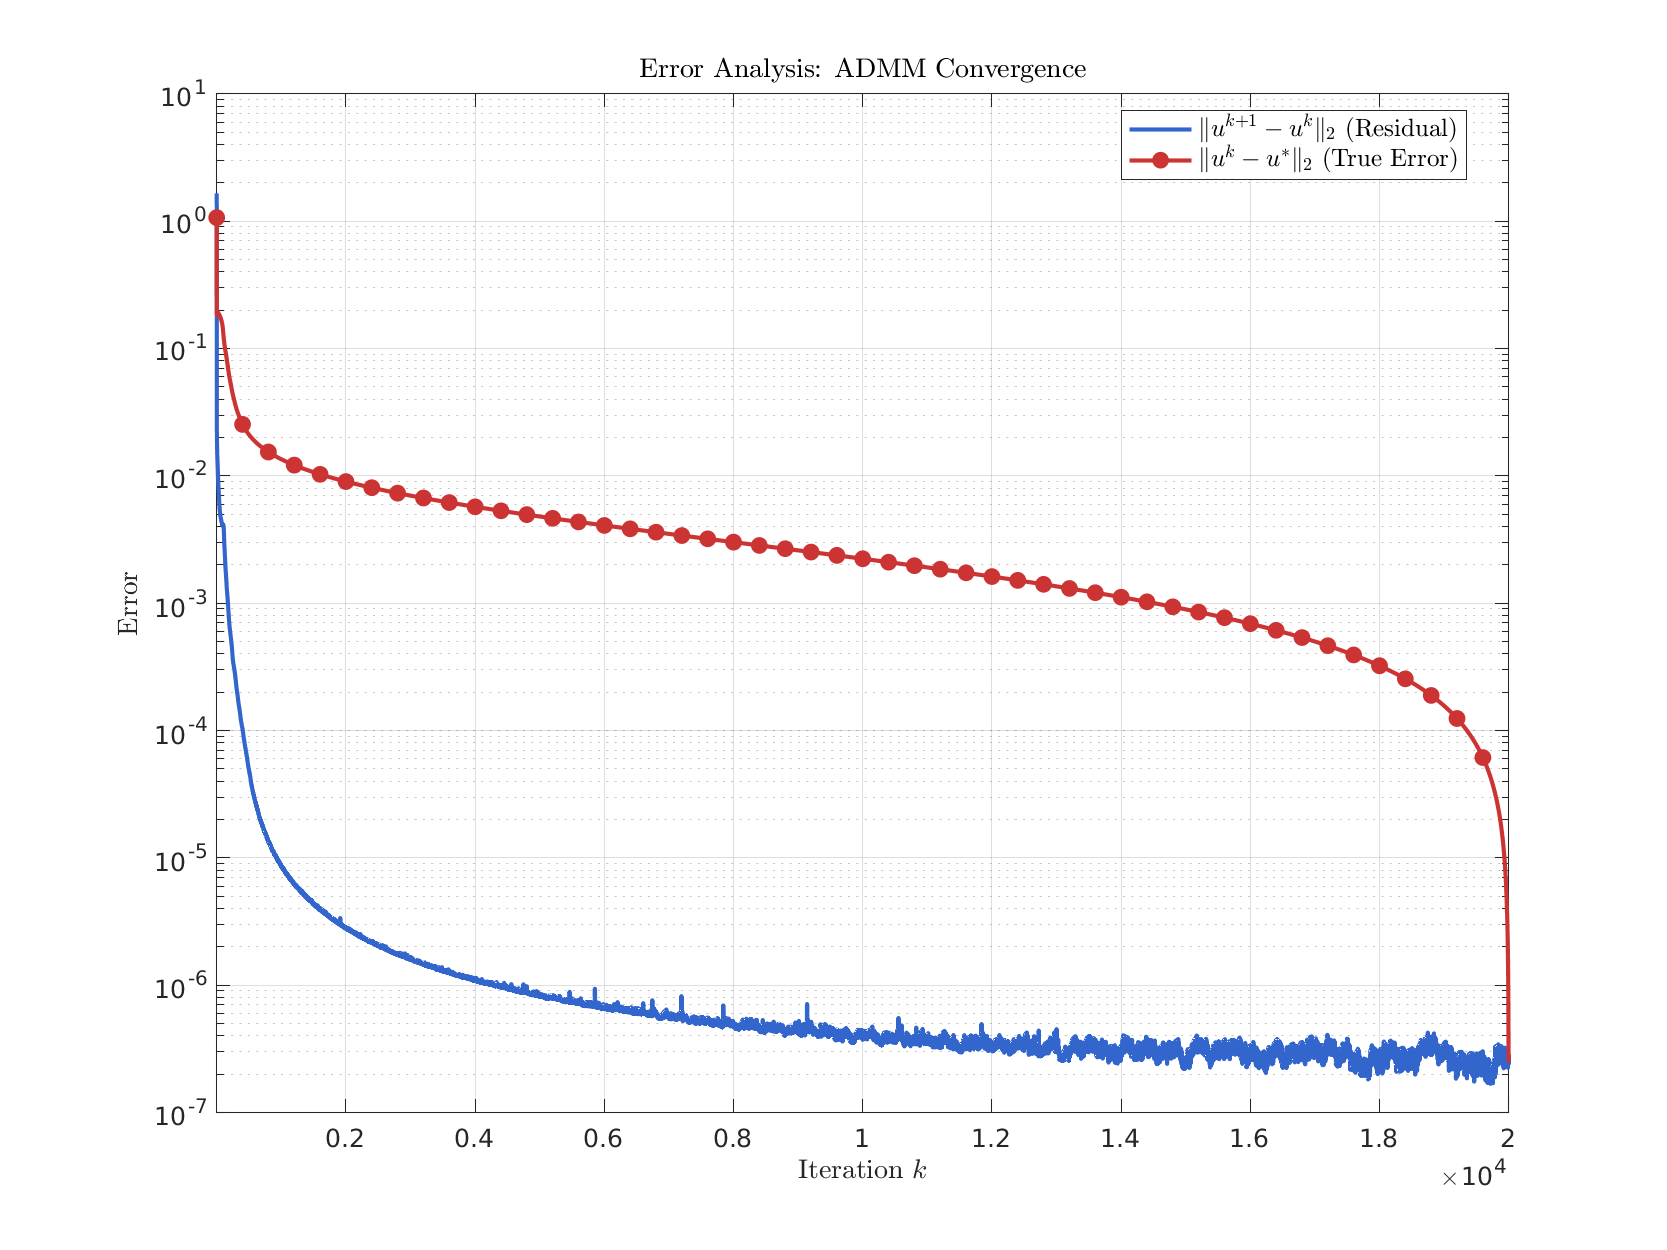
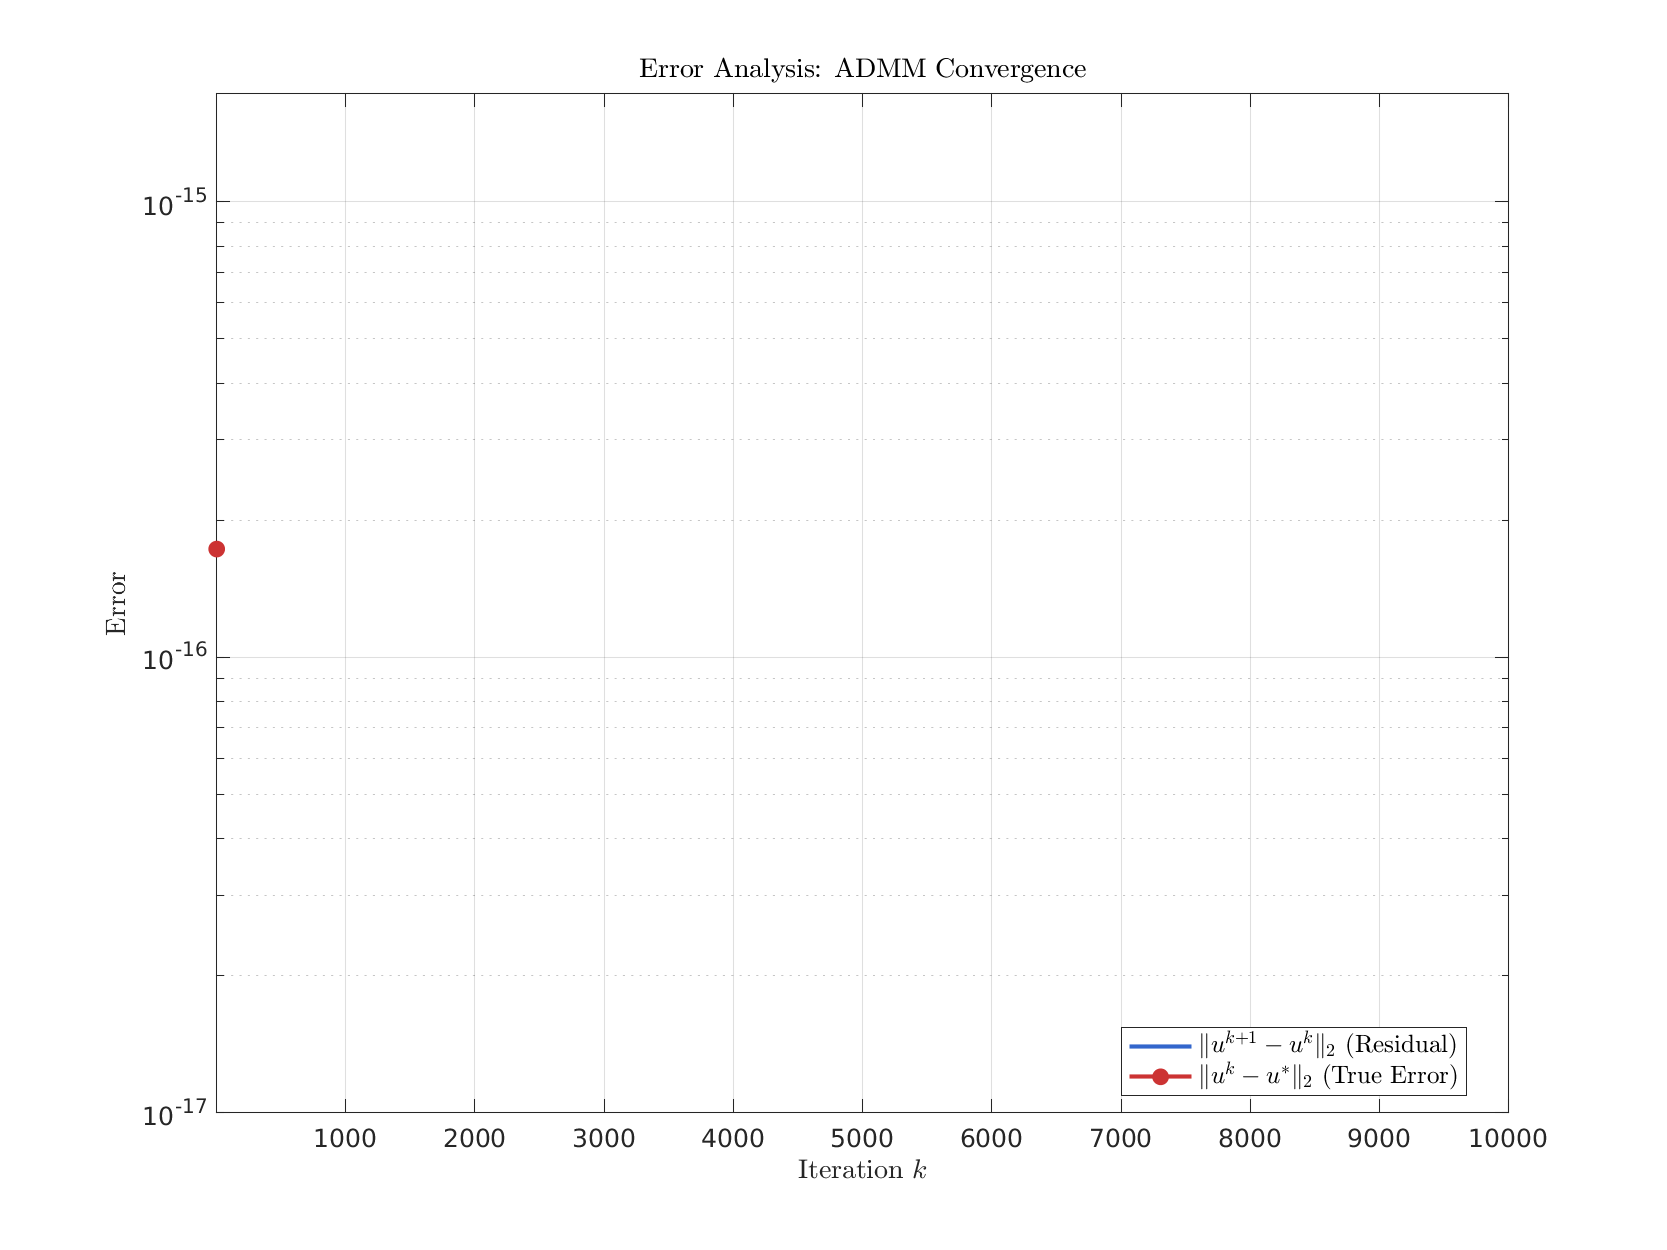
testing new inits

diff --git a/collocated_grid/2d/main_simple.m b/collocated_grid/2d/main_simple.m
@@ -3,9 +3,9 @@
 % 2D
 
 clear
-post_process = false;
+post_process = true;
 tau = 0.1;
-GPUcomputing = false;  
+GPUcomputing = true;  
 gpu_device = 1;
 folder = "./data/";
 case_name = "gaussian_";
@@ -15,7 +15,7 @@ ntp = nt+1;
 dt = 1/ntp;
 % t = linspace(0,1-dt,ntp);
 % t = t';
-maxIter = 20000;
+maxIter = 10000;
 
 
 % nx = nt;
@@ -41,10 +41,10 @@ rho0((x-0.25).^2 + (y-0.25).^2 < 0.01) = 1;
 rho1((x-0.75).^2 + (y-0.75).^2 < 0.01) = 1;
 
 % Quadrature Vector
-% rho0_mass = sum(rho0,'all')*dx*dy*dt;
-% rho1_mass = sum(rho1,'all')*dx*dy*dt;
 rho0_mass = sum(rho0,'all')*dx*dy;
 rho1_mass = sum(rho1,'all')*dx*dy;
+%rho0 = rho0/rho0_mass;
+%rho1 = rho1/rho1_mass;
 rho1  = rho1*(rho0_mass/rho1_mass);
 
 % mass_check = abs((rho0-rho1)*quadrature_x);
